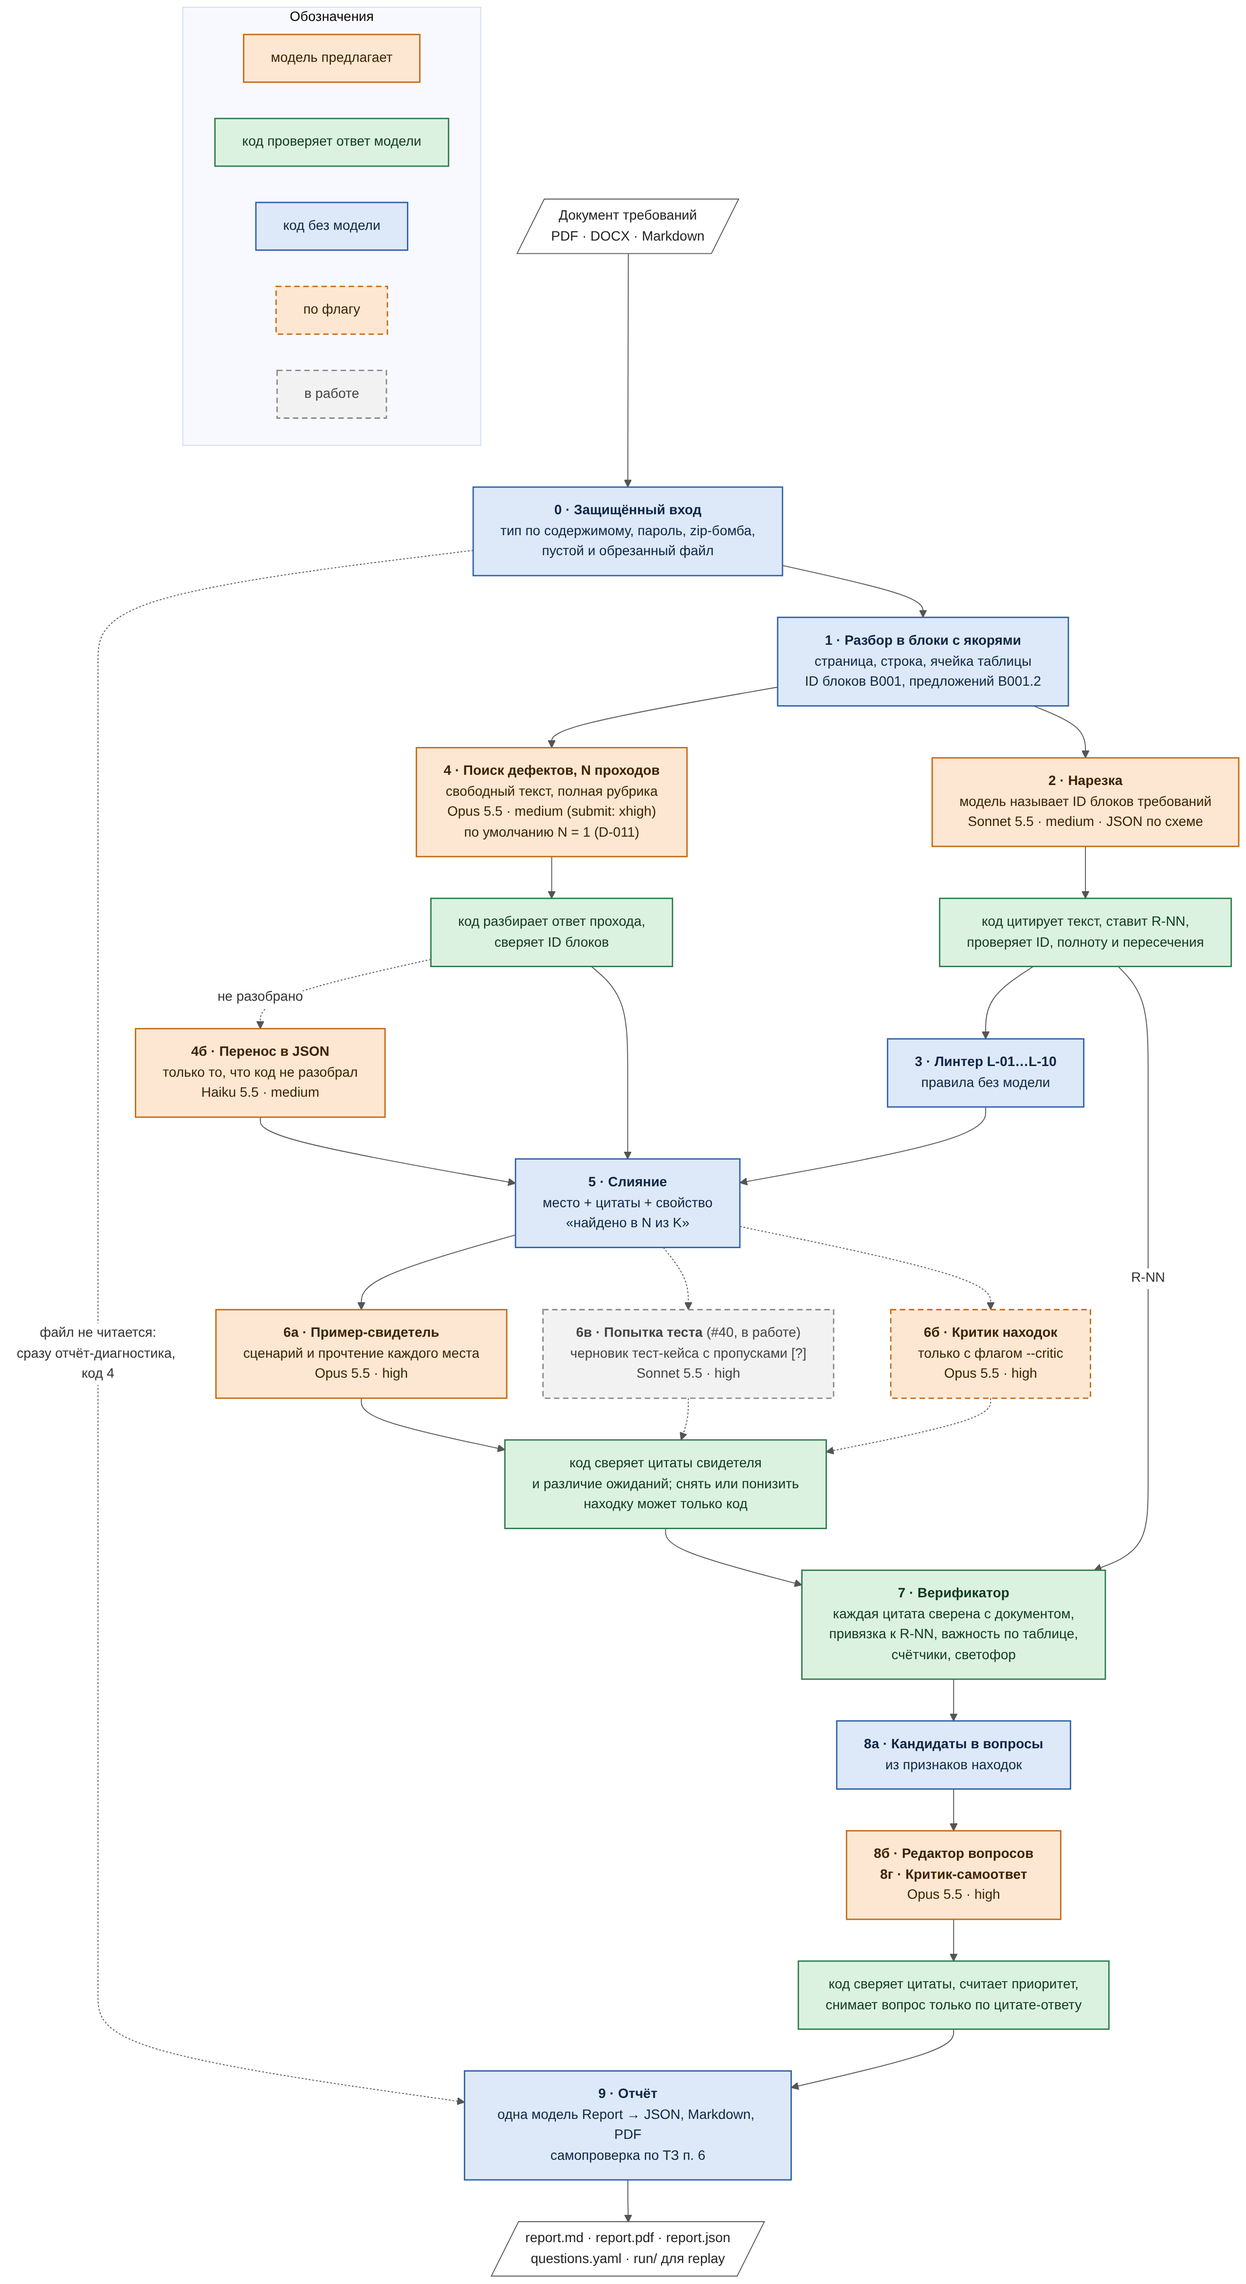
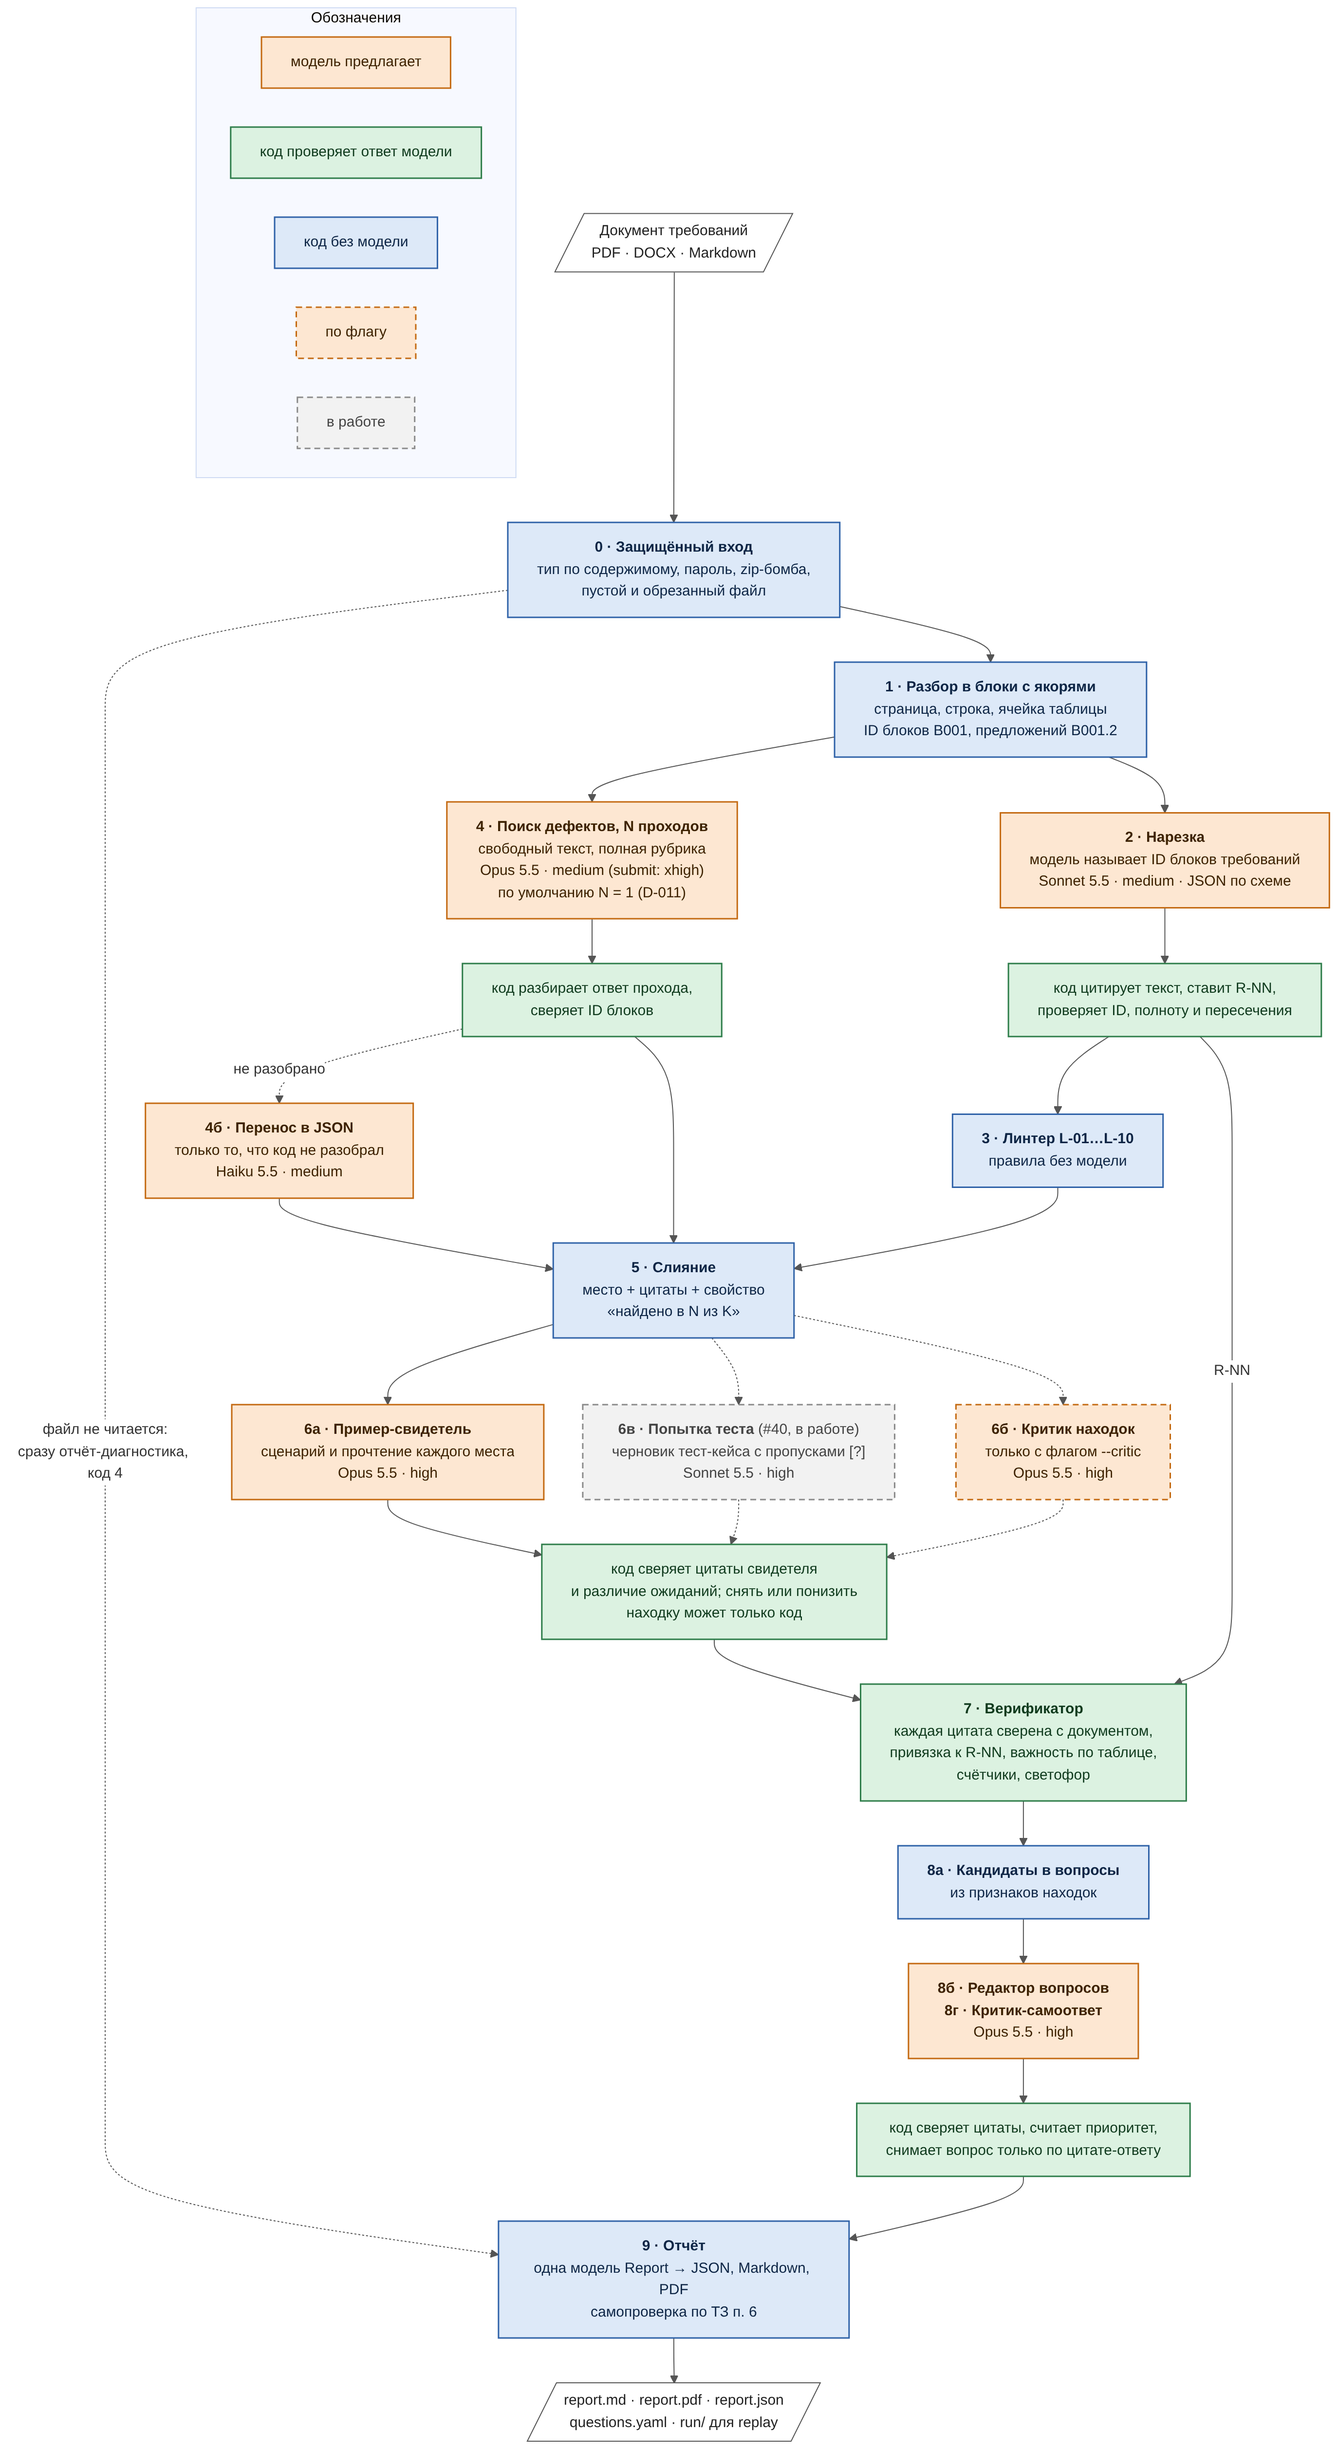
#45: правки ревью — auto без входа, «до 5 вызовов», статус при предупреждениях, рендер схемы в натуральную ширину
Claude-Session: https://claude.ai/code/session_013QsfoVFkwuVWQukV9t96x4

diff --git a/docs/architecture.md b/docs/architecture.md
@@ -12,7 +12,7 @@
 - модель не может сама снять находку или вопрос: снимает код, и только по цитате-основанию, которую он нашёл в документе;
 - любой сбой (битый файл, нет модели, лимит подписки, упавший шаг) превращается в диагностику с кодом, и отчёт пишется всегда.
 
-На прогон по умолчанию уходит 5 вызовов модели: нарезка, один проход поиска, свидетель, редактор вопросов и критик вопросов. Каждый вызов записан, поэтому отчёт пересобирается без модели и без ключа (replay).
+На прогон по умолчанию уходит до 5 вызовов модели (плюс повторы после временных сбоев): нарезка, один проход поиска, свидетель, редактор вопросов и критик вопросов. Свидетеля, редактора и критика вопросов код не вызывает, если для них нет находок или кандидатов. Каждый вызов записан, поэтому отчёт пересобирается без модели и без ключа (replay).
 
 ## Схема конвейера
 
@@ -146,7 +146,7 @@ flowchart LR
 | `replay` | [`llm/replay.py`](../src/validator/llm/replay.py) | Пересборка отчёта без модели и без ключа: `--backend replay --replay out/run` | `tests/test_e2e_replay.py` на трёх форматах в CI |
 | `fake` | [`llm/fake.py`](../src/validator/llm/fake.py) | Smoke-тест и CI | `tests/test_smoke.py` |
 
-`--backend auto` (по умолчанию, [`llm/factory.py`](../src/validator/llm/factory.py)): подписка, если `claude` установлен и вошёл в аккаунт; иначе API, если есть ключ; иначе replay из `--replay`; иначе отчёт с `LLM-001` и код 5. Подписка раньше ключа, потому что она не списывает деньги.
+`--backend auto` (по умолчанию, [`llm/factory.py`](../src/validator/llm/factory.py)): подписка, если `claude` установлен и вошёл в аккаунт; иначе API, если есть ключ; иначе replay из `--replay`. Если `claude` установлен, но `claude auth status` не видит входа, агент всё равно пробует подписку с пометкой в диагностике (статус видит не все способы входа), и сбой покажут сами вызовы. Отчёт с `LLM-001` и кодом 5 сразу, без вызовов, получается, когда нет ни команды `claude`, ни ключа, ни записи. Подписка раньше ключа, потому что она не списывает деньги.
 
 ## Воспроизводимость и паспорт
 
@@ -190,6 +190,7 @@ flowchart LR
 - **Один проход нестабилен:** Жаккар находок между прогонами 0,51 (три прохода 0,62). Три прохода остаются опцией `--passes 3`.
 - **Путь через API живым ключом не запускали** (D-009): он покрыт тестами на записанных ответах.
 - **Ещё не в `main`:** попытка теста (#40), цикл уточнения `--answers` и `--ask` (#42; сейчас флаги дают предупреждение `CFG-010` и проверку без ответов), OCR сканов (#38; сейчас скан даёт `IN-071` или `IN-051` с номерами страниц), доменные чек-листы с триггерами (#35; папка `checklists/` пока пустая, рубрика поиска общая).
+- **Сбой шага уровня «предупреждение» не меняет итог.** Если упали линтер или свидетель или вопросы собраны кодом без редактора, это видно в диагностике, но статус отчёта остаётся «полный», а светофор может быть зелёным. Статус «частично» дают только ошибки (упали все проходы поиска, слияние, верификатор); зелёный светофор снимают ещё и не собранные вопросы.
 - **Нарезка и поиск идут по очереди**, хотя друг от друга не зависят: прогон можно ускорить на время нарезки.
 - **Пороги слияния** (перекрытие цитат 0,6, похожесть текста 85) выбраны по смыслу и тестам, отдельно на eval не калибровались.
 - **Модель иногда цитирует строку таблицы так, как её показывает разметка блоков** («Колонка: значение; …»). Свидетель и критик сверяют такие цитаты по ячейкам, верификатор такую цитату отбрасывает (D-011, «Найдено по пути»).

diff --git a/docs/img/README.md b/docs/img/README.md
@@ -4,13 +4,16 @@
 |---|---|---|
 | `pipeline.mmd` | Схема конвейера агента (исходник mermaid) | правится руками |
 | `pipeline.svg` | Схема для README и `docs/architecture.md` | собирается из `pipeline.mmd` |
-| `pipeline.png` | Та же схема для слайдов, 2560 px в ширину | собирается из `pipeline.mmd` |
+| `pipeline.png` | Та же схема для слайдов, вдвое крупнее SVG | собирается из `pipeline.mmd` |
 
-Как пересобрать после правки `pipeline.mmd` (нужны Node 18+ и Chromium, который ставит Playwright):
+Как пересобрать после правки `pipeline.mmd` (нужен Node 18+):
 
 ```bash
-npm install --prefix /tmp/mmd mermaid@11.4.1 playwright
+npm install --prefix /tmp/mmd mermaid@11.4.1 playwright@1.49.1
+npx --prefix /tmp/mmd playwright install chromium     # на Linux: install --with-deps chromium
 NODE_PATH=/tmp/mmd/node_modules node scripts/render_diagram.mjs docs/img/pipeline.mmd docs/img/pipeline
 ```
+
+PNG снимается в натуральную ширину схемы с масштабом 2.
 
 Тот же текст схемы (без блока «Обозначения») стоит в `docs/architecture.md` в блоке mermaid: после правки исходника скопируйте его туда, чтобы картинка и текст не разошлись.

diff --git a/docs/adr/0005-guarded-input-diagnostics-exit-codes.md b/docs/adr/0005-guarded-input-diagnostics-exit-codes.md
@@ -40,7 +40,7 @@
 ### Плохое
 
 - Запасные пути надо поддерживать и тестировать отдельно (нарезка без модели, вопросы кодом без редактора).
-- Частичный результат легко принять за полный: поэтому статус отчёта «частично» и светофор не бывает зелёным, если шаг упал или вопросы не собраны.
+- Частичный результат легко принять за полный. Поэтому сбой уровня «ошибка» (не отработали поиск, слияние, верификатор) даёт статус отчёта «частично», а зелёный светофор становится жёлтым; не собранные вопросы тоже не дают зелёного. Сбой уровня «предупреждение» (линтер, свидетель, редактор вопросов с запасным путём) виден в диагностике, но статус и цвет не меняет.
 
 ### Риски
 

diff --git a/docs/adr/README.md b/docs/adr/README.md
@@ -13,4 +13,4 @@
 | [0005](0005-guarded-input-diagnostics-exit-codes.md) | Защищённый вход, диагностика вместо падения, коды возврата | принято | D-006 | 25.11.2026 |
 | [0006](0006-pdf-engine-behind-interface.md) | PDF-движок за интерфейсом из-за AGPL | принято | исследование 04 | 25.11.2026 |
 
-Новый ADR: скопируйте [`template.md`](template.md), возьмите следующий номер, добавьте строку в таблицу и запись в `docs/decisions.md`.
+Новое архитектурное решение: короткая запись в `docs/decisions.md` (как всегда), а если решение меняет устройство агента, ещё и ADR: скопируйте [`template.md`](template.md), возьмите следующий номер и добавьте строку в таблицу. У ADR 0006 отдельной записи в журнале нет: решение описано в исследовании 04, ADR его фиксирует.

diff --git a/docs/adr/0004-one-llm-interface-subscription-api-replay.md b/docs/adr/0004-one-llm-interface-subscription-api-replay.md
@@ -18,7 +18,7 @@
 - `replay` — ответы из папки `run/` прошлого прогона ([`replay.py`](../../src/validator/llm/replay.py)), без модели и без ключа;
 - `fake` — фикстуры для тестов.
 
-Поверх любого бэкенда `RecordingClient` ([`calllog.py`](../../src/validator/llm/calllog.py)) одинаково делает кеш, лимит цены, один повтор и запись каждого вызова. `--backend auto` выбирает подписку, затем ключ, затем replay, иначе пишет отчёт с `LLM-001`.
+Поверх любого бэкенда `RecordingClient` ([`calllog.py`](../../src/validator/llm/calllog.py)) одинаково делает кеш, лимит цены, один повтор и запись каждого вызова. `--backend auto` выбирает подписку, затем ключ, затем replay; если нет ни команды `claude`, ни ключа, ни записи, пишет отчёт с `LLM-001`.
 
 ## Альтернативы
 
